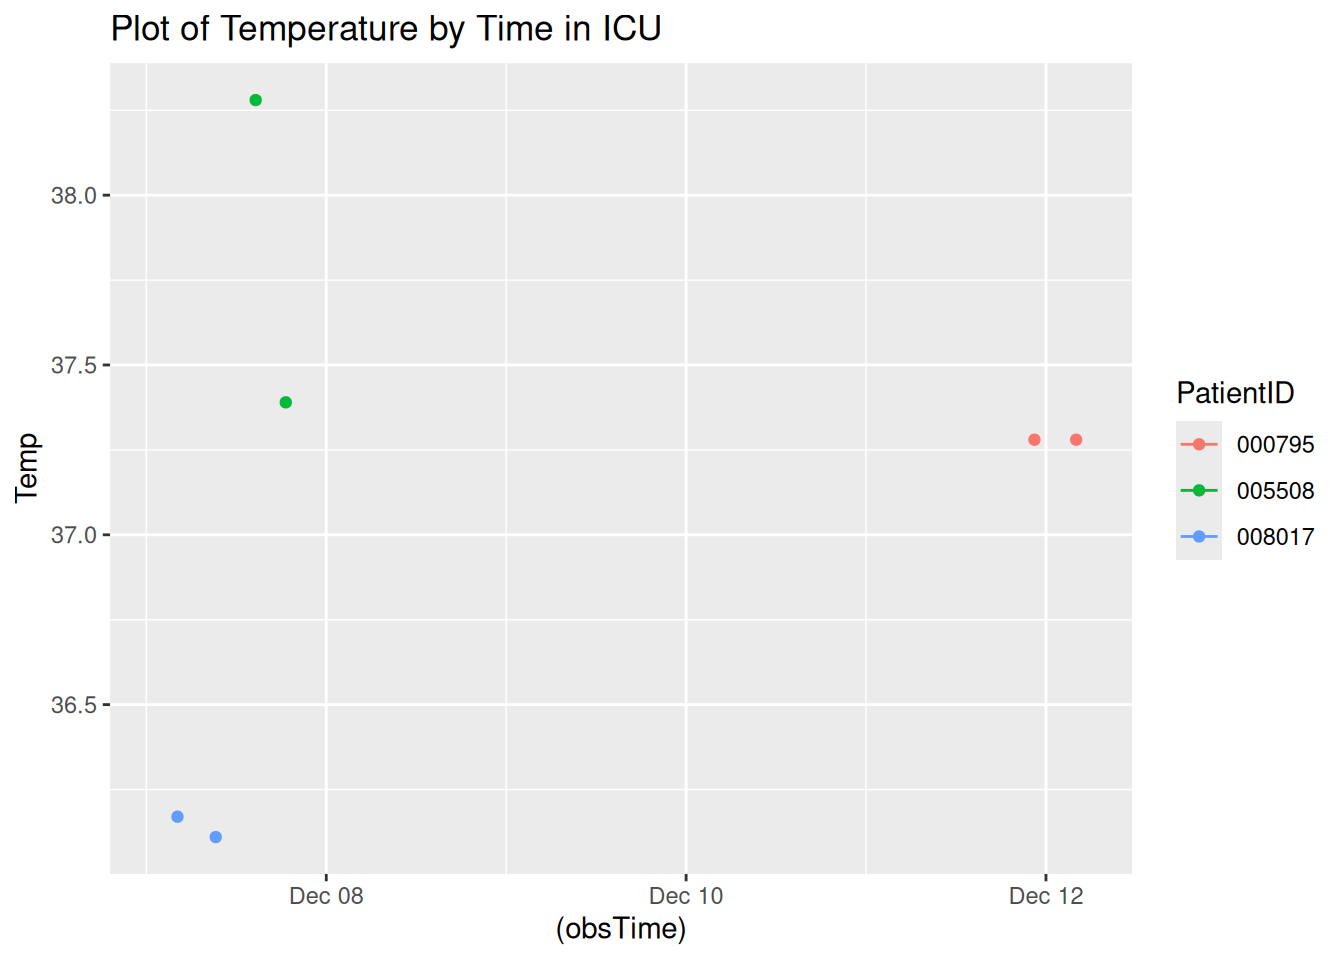
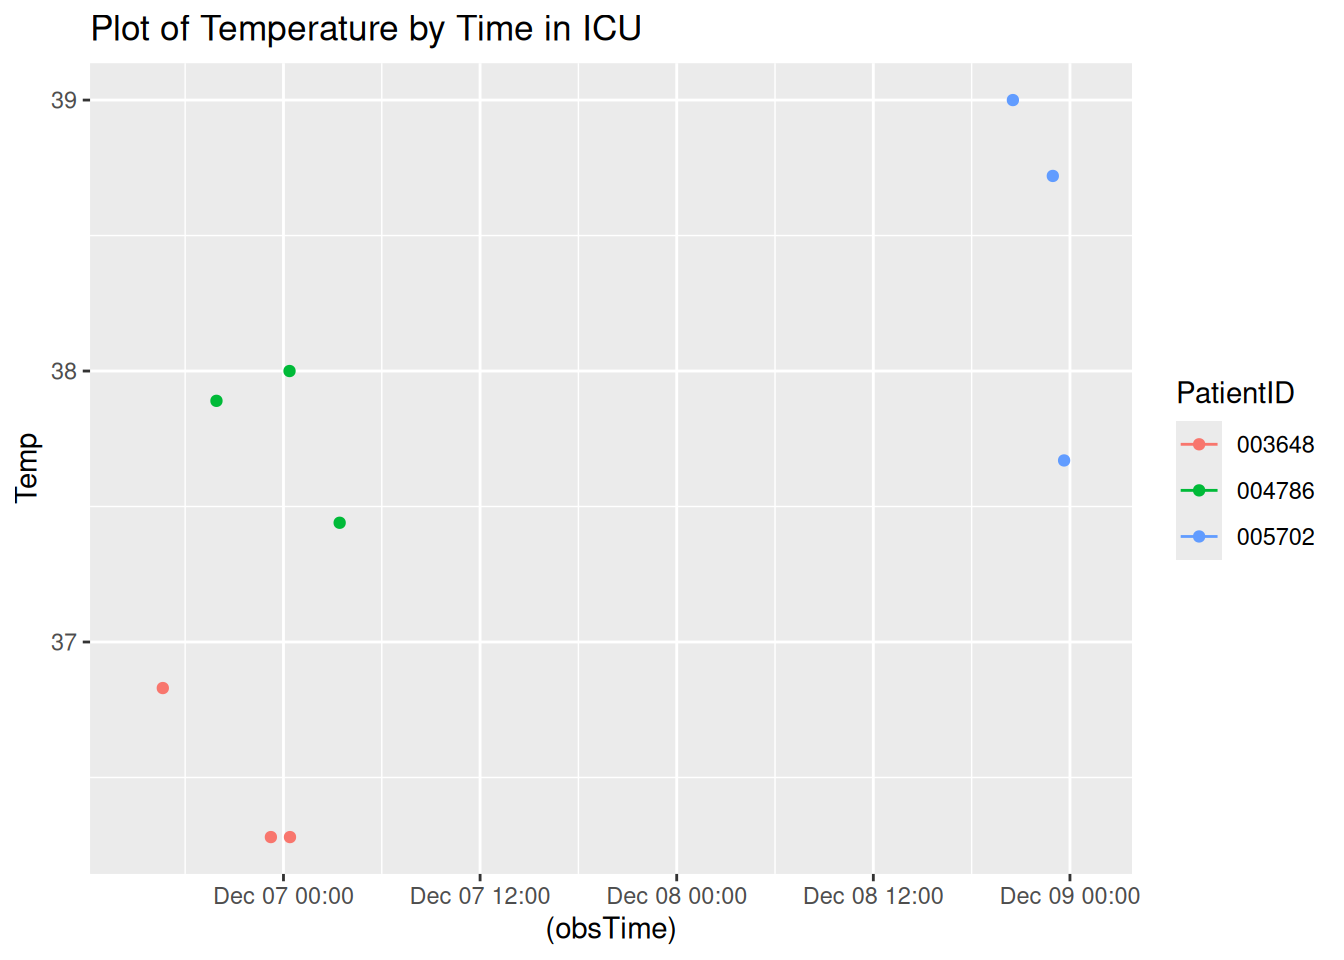
Updated report

diff --git a/A7.html b/A7.html
@@ -119,7 +119,7 @@ pre > code.sourceCode > span > a:first-child::before { text-decoration: underlin
 </div>
 <div class="code-copy-outer-scaffold"><div class="sourceCode cell-code" id="cb4"><pre class="sourceCode r code-with-copy"><code class="sourceCode r"><span id="cb4-1"><a href="#cb4-1" aria-hidden="true" tabindex="-1"></a><span class="fu">toc</span>()</span></code></pre></div><button title="Copy to Clipboard" class="code-copy-button"><i class="bi"></i></button></div>
 <div class="cell-output cell-output-stdout">
-<pre><code>10.465 sec elapsed</code></pre>
+<pre><code>11.386 sec elapsed</code></pre>
 </div>
 <div class="code-copy-outer-scaffold"><div class="sourceCode cell-code" id="cb6"><pre class="sourceCode r code-with-copy"><code class="sourceCode r"><span id="cb6-1"><a href="#cb6-1" aria-hidden="true" tabindex="-1"></a><span class="fu">tic</span>()</span>
 <span id="cb6-2"><a href="#cb6-2" aria-hidden="true" tabindex="-1"></a>test1<span class="ot">=</span><span class="fu">makeSepsisDataset</span>(<span class="at">n=</span><span class="dv">50</span>,<span class="at">read_fn =</span> <span class="st">"read_delim"</span>)</span>
@@ -129,7 +129,7 @@ pre > code.sourceCode > span > a:first-child::before { text-decoration: underlin
 </div>
 <div class="code-copy-outer-scaffold"><div class="sourceCode cell-code" id="cb8"><pre class="sourceCode r code-with-copy"><code class="sourceCode r"><span id="cb8-1"><a href="#cb8-1" aria-hidden="true" tabindex="-1"></a><span class="fu">toc</span>()</span></code></pre></div><button title="Copy to Clipboard" class="code-copy-button"><i class="bi"></i></button></div>
 <div class="cell-output cell-output-stdout">
-<pre><code>8.633 sec elapsed</code></pre>
+<pre><code>8.481 sec elapsed</code></pre>
 </div>
 <div class="code-copy-outer-scaffold"><div class="sourceCode cell-code" id="cb10"><pre class="sourceCode r code-with-copy"><code class="sourceCode r"><span id="cb10-1"><a href="#cb10-1" aria-hidden="true" tabindex="-1"></a><span class="co"># n=100</span></span>
 <span id="cb10-2"><a href="#cb10-2" aria-hidden="true" tabindex="-1"></a><span class="fu">tic</span>()</span>
@@ -140,7 +140,7 @@ pre > code.sourceCode > span > a:first-child::before { text-decoration: underlin
 </div>
 <div class="code-copy-outer-scaffold"><div class="sourceCode cell-code" id="cb12"><pre class="sourceCode r code-with-copy"><code class="sourceCode r"><span id="cb12-1"><a href="#cb12-1" aria-hidden="true" tabindex="-1"></a><span class="fu">toc</span>()</span></code></pre></div><button title="Copy to Clipboard" class="code-copy-button"><i class="bi"></i></button></div>
 <div class="cell-output cell-output-stdout">
-<pre><code>12.846 sec elapsed</code></pre>
+<pre><code>13.971 sec elapsed</code></pre>
 </div>
 <div class="code-copy-outer-scaffold"><div class="sourceCode cell-code" id="cb14"><pre class="sourceCode r code-with-copy"><code class="sourceCode r"><span id="cb14-1"><a href="#cb14-1" aria-hidden="true" tabindex="-1"></a><span class="fu">tic</span>()</span>
 <span id="cb14-2"><a href="#cb14-2" aria-hidden="true" tabindex="-1"></a>test1<span class="ot">=</span><span class="fu">makeSepsisDataset</span>(<span class="at">n=</span><span class="dv">100</span>,<span class="at">read_fn =</span> <span class="st">"read_delim"</span>)</span>
@@ -150,7 +150,7 @@ pre > code.sourceCode > span > a:first-child::before { text-decoration: underlin
 </div>
 <div class="code-copy-outer-scaffold"><div class="sourceCode cell-code" id="cb16"><pre class="sourceCode r code-with-copy"><code class="sourceCode r"><span id="cb16-1"><a href="#cb16-1" aria-hidden="true" tabindex="-1"></a><span class="fu">toc</span>()</span></code></pre></div><button title="Copy to Clipboard" class="code-copy-button"><i class="bi"></i></button></div>
 <div class="cell-output cell-output-stdout">
-<pre><code>16.184 sec elapsed</code></pre>
+<pre><code>16.718 sec elapsed</code></pre>
 </div>
 <div class="code-copy-outer-scaffold"><div class="sourceCode cell-code" id="cb18"><pre class="sourceCode r code-with-copy"><code class="sourceCode r"><span id="cb18-1"><a href="#cb18-1" aria-hidden="true" tabindex="-1"></a><span class="co"># n=500</span></span>
 <span id="cb18-2"><a href="#cb18-2" aria-hidden="true" tabindex="-1"></a><span class="fu">tic</span>()</span>
@@ -161,7 +161,7 @@ pre > code.sourceCode > span > a:first-child::before { text-decoration: underlin
 </div>
 <div class="code-copy-outer-scaffold"><div class="sourceCode cell-code" id="cb20"><pre class="sourceCode r code-with-copy"><code class="sourceCode r"><span id="cb20-1"><a href="#cb20-1" aria-hidden="true" tabindex="-1"></a><span class="fu">toc</span>()</span></code></pre></div><button title="Copy to Clipboard" class="code-copy-button"><i class="bi"></i></button></div>
 <div class="cell-output cell-output-stdout">
-<pre><code>67.106 sec elapsed</code></pre>
+<pre><code>68.498 sec elapsed</code></pre>
 </div>
 <div class="code-copy-outer-scaffold"><div class="sourceCode cell-code" id="cb22"><pre class="sourceCode r code-with-copy"><code class="sourceCode r"><span id="cb22-1"><a href="#cb22-1" aria-hidden="true" tabindex="-1"></a><span class="fu">tic</span>()</span>
 <span id="cb22-2"><a href="#cb22-2" aria-hidden="true" tabindex="-1"></a>test1<span class="ot">=</span><span class="fu">makeSepsisDataset</span>(<span class="at">n=</span><span class="dv">500</span>,<span class="at">read_fn =</span> <span class="st">"read_delim"</span>)</span>
@@ -171,7 +171,7 @@ pre > code.sourceCode > span > a:first-child::before { text-decoration: underlin
 </div>
 <div class="code-copy-outer-scaffold"><div class="sourceCode cell-code" id="cb24"><pre class="sourceCode r code-with-copy"><code class="sourceCode r"><span id="cb24-1"><a href="#cb24-1" aria-hidden="true" tabindex="-1"></a><span class="fu">toc</span>()</span></code></pre></div><button title="Copy to Clipboard" class="code-copy-button"><i class="bi"></i></button></div>
 <div class="cell-output cell-output-stdout">
-<pre><code>80.896 sec elapsed</code></pre>
+<pre><code>81.625 sec elapsed</code></pre>
 </div>
 </div>
 <p><strong>Task 3</strong></p>
@@ -197,7 +197,7 @@ pre > code.sourceCode > span > a:first-child::before { text-decoration: underlin
 <span id="cb28-4"><a href="#cb28-4" aria-hidden="true" tabindex="-1"></a></span>
 <span id="cb28-5"><a href="#cb28-5" aria-hidden="true" tabindex="-1"></a><span class="fu">Sys.time</span>()</span></code></pre></div><button title="Copy to Clipboard" class="code-copy-button"><i class="bi"></i></button></div>
 <div class="cell-output cell-output-stdout">
-<pre><code>[1] "2025-12-06 12:49:23 UTC"</code></pre>
+<pre><code>[1] "2025-12-06 13:33:34 UTC"</code></pre>
 </div>
 <div class="code-copy-outer-scaffold"><div class="sourceCode cell-code" id="cb30"><pre class="sourceCode r code-with-copy"><code class="sourceCode r"><span id="cb30-1"><a href="#cb30-1" aria-hidden="true" tabindex="-1"></a>dfnew <span class="ot">&lt;-</span> df <span class="sc">%&gt;%</span></span>
 <span id="cb30-2"><a href="#cb30-2" aria-hidden="true" tabindex="-1"></a>  <span class="fu">subset</span>(SepsisLabel<span class="sc">==</span><span class="dv">1</span>)</span>
@@ -226,31 +226,31 @@ pre > code.sourceCode > span > a:first-child::before { text-decoration: underlin
 </thead>
 <tbody>
 <tr class="odd">
-<td style="text-align: left;">000795</td>
-<td style="text-align: right;">137</td>
-<td style="text-align: right;">54</td>
-<td style="text-align: right;">NA</td>
-<td style="text-align: right;">18</td>
+<td style="text-align: left;">003648</td>
+<td style="text-align: right;">13</td>
+<td style="text-align: right;">66</td>
+<td style="text-align: right;">36.28</td>
+<td style="text-align: right;">16</td>
 <td style="text-align: right;">1</td>
-<td style="text-align: left;">2025-12-12 05:18:40</td>
+<td style="text-align: left;">2025-12-07 00:23:50</td>
 </tr>
 <tr class="even">
-<td style="text-align: left;">005508</td>
-<td style="text-align: right;">33</td>
-<td style="text-align: right;">94</td>
+<td style="text-align: left;">004786</td>
+<td style="text-align: right;">15</td>
+<td style="text-align: right;">93</td>
 <td style="text-align: right;">NA</td>
-<td style="text-align: right;">31</td>
+<td style="text-align: right;">19</td>
 <td style="text-align: right;">1</td>
-<td style="text-align: left;">2025-12-07 21:18:02</td>
+<td style="text-align: left;">2025-12-07 04:24:14</td>
 </tr>
 <tr class="odd">
-<td style="text-align: left;">008017</td>
+<td style="text-align: left;">005702</td>
+<td style="text-align: right;">60</td>
+<td style="text-align: right;">89</td>
+<td style="text-align: right;">NA</td>
 <td style="text-align: right;">23</td>
-<td style="text-align: right;">86</td>
-<td style="text-align: right;">NA</td>
-<td style="text-align: right;">NA</td>
 <td style="text-align: right;">1</td>
-<td style="text-align: left;">2025-12-07 11:19:09</td>
+<td style="text-align: left;">2025-12-09 00:54:39</td>
 </tr>
 </tbody>
 </table>
